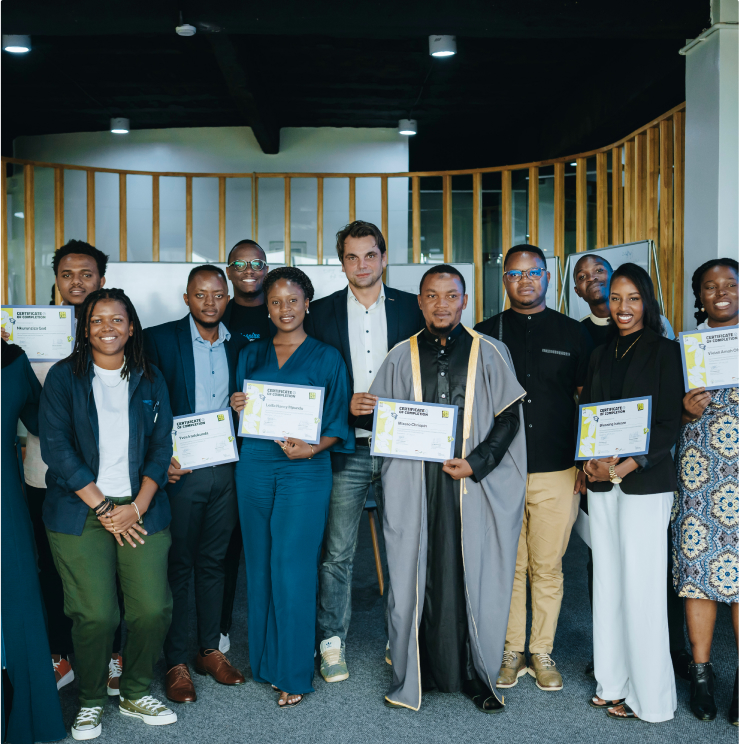
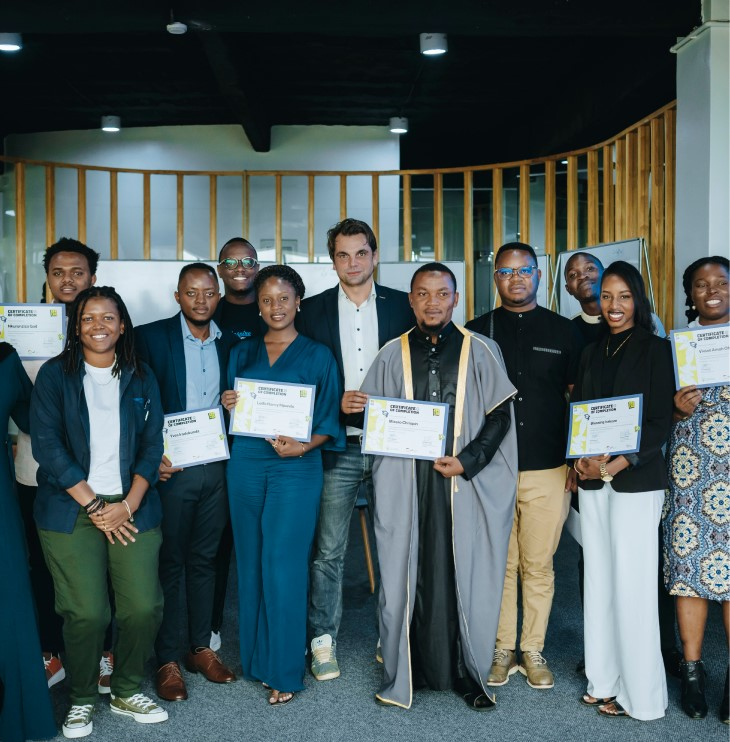
changes

diff --git a/src/projects.ts b/src/projects.ts
@@ -68,8 +68,8 @@ export interface GroupedProject {
 const projects: Project[] = [
   {
     id: "rwandafoam",
-    name: "RWANDA FOAM",
-    details: "Rwanda Foam is a prominent manufacturer of mattresses and sleep accessories established in 1983. They specialize in producing high-quality foam mattresses designed for comfort and airflow, with a focus on enhancing sleep quality and providing value to customers.",
+    name: "RWANDAFOAM",
+    details: "RwandaFoam is a prominent manufacturer of mattresses and sleep accessories established in 1983. They specialize in producing high-quality foam mattresses designed for comfort and airflow, with a focus on enhancing sleep quality and providing value to customers.",
     description: "Re-establishing a reputable brand name across all ",
     description2: "marketing platforms",
     image: "/assets/foam.png",
@@ -77,18 +77,18 @@ const projects: Project[] = [
     dupImage: "/assets/mattress.jpg",
     layoutType: "full",
     video: "/PxEvids/Videos/Rwandafoam.mp4",
-    survey1: "Rwandafoam needed to revive its public presence and re-establish itself as the leading manufacturer of pure foam mattresses in Rwanda. Our market survey highlighted the challenge of an undefined brand identity, as many people didn’t see mattresses as a product worth engaging with on social media. We developed a strategy to build a distinct brand presence, emphasizing luxury, quality, and customer connection, to change perceptions and drive engagement.",
-    solution1: "When Rwandafoam was ready to turn their mattresses into more than just a product, we stepped in with a bold idea. Instead of simply selling a product, we told a story—one where luxury meets comfort, and quality goes beyond the surface. We developed campaigns that brought the Rwandafoam brand to life across TV, social media, and through influencers, showing that mattresses could be a conversation worth having.",
+    survey1: "RwandaFoam needed to revive its public presence and re-establish itself as the leading manufacturer of pure foam mattresses in Rwanda. Our market survey highlighted the challenge of an undefined brand identity, as many people didn’t see mattresses as a product worth engaging with on social media. We developed a strategy to build a distinct brand presence, emphasizing luxury, quality, and customer connection, to change perceptions and drive engagement.",
+    solution1: "When RwandaFoam was ready to turn their mattresses into more than just a product, we stepped in with a bold idea. Instead of simply selling a product, we told a story—one where luxury meets comfort, and quality goes beyond the surface. We developed campaigns that brought the Rwandafoam brand to life across TV, social media, and through influencers, showing that mattresses could be a conversation worth having.",
     solution2: "Activating creative strategies for RwandaFoam has boosted the company's outreach on and offline. Together with RwandaFoam, we told stories that turned users into comfortable customers. One mattress at a time.",
     subImage1: "/assets/mom.png",
     subImage2: "/assets/rose.jpg",
     subImage3: "/assets/sirimuka.png",
     projSubtitle1: "RwandaFoam at Tour du",
     projSubtitle2: " Rwanda",
-    projDesc1: "As part of elevating the brand image, Pixel Eye launched Sirimuka na Rwandafoam [Upgrade with RwandaFoam], the campaign that positioned the mattress giant as an attractive choice for high-end clientele.  The aim was to change a mindset held by Made-in-Rwanda-equals-poor-quality believers; revealing the intricate process and premium materials it takes to make the award-winning mattresses.",
+    projDesc1: "As part of elevating the brand image, Pixel Eye launched Sirimuka na RwandaFoam [Upgrade with RwandaFoam], the campaign that positioned the mattress giant as an attractive choice for high-end clientele.  The aim was to change a mindset held by Made-in-Rwanda-equals-poor-quality believers; revealing the intricate process and premium materials it takes to make the award-winning mattresses.",
     proj2Subtitle1: "Re-establish the brand's",
     proj2Subtitle2: "digital presence",
-    proj2Desc1: "With the need to revive their public presence and re-establish themselves as the leading manufacturer of Pure foam mattresses in Rwanda, we developed a campaign-based communication plan, that focused on re-establishing a reputable brand name for Rwandafoam across all social media platforms, increase product knowledge by using TV commercials, and thus generate more sales by establishing Rwandafoam's online shopping platform.",
+    proj2Desc1: "With the need to revive their public presence and re-establish themselves as the leading manufacturer of Pure foam mattresses in Rwanda, we developed a campaign-based communication plan, that focused on re-establishing a reputable brand name for RwandaFoam across all social media platforms, increase product knowledge by using TV commercials, and thus generate more sales by establishing RwandaFoam's online shopping platform.",
     sub2Image1: "/assets/foam1.jpg",
     sub2Image2: "/assets/man.png",
     sub2Image3: "/assets/landscape.jpg",
@@ -117,7 +117,7 @@ const projects: Project[] = [
     subImage3: "/assets/covers.jpg",
     projSubtitle1: "The “Stories Of Peace” ",
     projSubtitle2: "Book.",
-    projDesc1: "Over the years, we have worked with AEGIS TRUST in a creative capacity over various projects that range mostly in creative graphic design. One particular project to highlight is the “Stories Of Peace” books. AEGIS TRUST wanted to design the book in a visually storytelling manner that would appeal to the readers. We designed a book that combined visual and written elements to tell stories of peace, which were a compilation of stories from survivors of 1994 genocide against the Tutsi. This enabled AEGIS TRUST to launch the book, thus contributing to their peacebuilding mission here in Rwanda, and all around the world.",
+    projDesc1: "Over the years, we have worked with AEGIS TRUST in a creative capacity over various projects that range mostly in creative graphic design. One particular project to highlight is the “Stories Of Peace” book. AEGIS TRUST wanted to design the book in a visually storytelling manner that would appeal to the readers. We designed a book that combined visual and written elements to tell stories of peace, which were a compilation of stories from survivors of 1994 genocide against the Tutsi. This enabled AEGIS TRUST to launch the book, thus contributing to their peacebuilding mission here in Rwanda, and all around the world.",
     proj2Subtitle1: "Healing Our Community ",
     proj2Subtitle2: "(HOC)",
     proj2Desc1: "Healing Our Community is a partnership that also includes Healing and Rebuilding Our Communities- Rwanda and IRDP - Institute of Research and Dialogue for Peace, and is supported by USAID. This joint project is a documentary that highlights the lives that have been positively impacted by the initiative. This inspiring  30 minute documentary reveals what we can all learn from Rwandan peace-builders, 25 years after the Genocide Against the Tutsi and includes stories from Karuna Center's Healing Our Communities program.",

diff --git a/src/app/page.tsx b/src/app/page.tsx
@@ -12,13 +12,13 @@ export default function Home() {
   const [isLoaded, setIsLoaded] = useState(false);
 
   const slides = [
-    { video: '/PxEvids/Videos/jibu.mp4', text: 'JIBU', desc: 'Driving change through communication', link: '/project/jibu' },
-    { video: '/PxEvids/Videos/aegis.mp4', text: 'AEGIS', desc: 'The stories of peace books', link: '/project/aegis' },
+    { video: '/PxEvids/Videos/jibu.mp4', text: 'JIBU', desc: 'Driving Change Through Communication', link: '/project/jibu' },
+    { video: '/PxEvids/Videos/aegis.mp4', text: 'AEGIS', desc: 'The "Stories Of Peace" book', link: '/project/aegis' },
     { video: '/PxEvids/Videos/HANGA PITCHFEST FINALE 2024.mp4', text: 'HANGA PITCHFEST', desc: 'Campaign Creative Direction', link: '/project/hanga-pitchfest' },
     { video: '/PxEvids/Videos/YCAS_24 Web reel.mp4', text: 'YOUTH CONNEKT AFRICA 2024', desc: 'Campaign Creative Direction', link: '/project/youth-connekt' },
     { video: '/PxEvids/Videos/250 PODCAST CEREMONY.mp4', text: '250 PODCAST', desc: 'Identity Development & Training Coordination', link: '/project/250-podcast' },
     { video: '/PxEvids/Videos/HANGA HUBS FINALE HIGHLIGHT.mp4', text: 'HANGA HUBS', desc: 'Campaign Creative Direction', link: '/project/hanga-pitchfest' },
-    { video: '/PxEvids/Videos/Rwandafoam.mp4', text: 'RWANDA FOAM', desc: 'Brand Revival implementation', link: '/project/rwandafoam' },
+    { video: '/PxEvids/Videos/Rwandafoam.mp4', text: 'RWANDAFOAM', desc: 'Brand Revival Implementation', link: '/project/rwandafoam' },
     { video: '/PxEvids/Videos/SRH web HIGHLIGHT.mp4', text: 'HANGA SRH', desc: 'Campaign Creative Direction', link: '/project/hanga-pitchfest' },
   ]
 
@@ -340,13 +340,13 @@ export default function Home() {
                   className="text-3xl lg:text-5xl font-Caslon"
                   variants={textReveal}
                 >
-                  Rwandafoam: Brand
+                  RwandaFoam: Brand
                 </motion.p>
                 <motion.p
                   className="text-3xl lg:text-5xl font-Caslon"
                   variants={textReveal}
                 >
-                  Revival implementation
+                  Revival Implementation
                 </motion.p>
               </div>
 
@@ -484,8 +484,8 @@ export default function Home() {
                     <HiArrowLongRight fill="gold" className="text-4xl" />
                   </div>
                   <div>
-                    <p className="text-white text-3xl md:text-4xl font-Caslon">Campaign creative </p>
-                    <p className="text-white text-3xl md:text-4xl font-Caslon"> direction</p>
+                    <p className="text-white text-3xl md:text-4xl font-Caslon">Campaign Creative </p>
+                    <p className="text-white text-3xl md:text-4xl font-Caslon"> Direction</p>
                   </div>
                 </motion.div>
               </Link>
@@ -557,8 +557,8 @@ export default function Home() {
                     <HiArrowLongRight fill="gold" className="text-4xl" />
                   </div>
                   <div>
-                    <p className="text-white text-3xl md:text-4xl font-Caslon">Audio-visual</p>
-                    <p className="text-white text-3xl md:text-4xl font-Caslon"> production</p>
+                    <p className="text-white text-3xl md:text-4xl font-Caslon">Audio-Visual</p>
+                    <p className="text-white text-3xl md:text-4xl font-Caslon">Production</p>
                   </div>
                 </motion.div>
               </Link>

diff --git a/src/app/services/page.tsx b/src/app/services/page.tsx
@@ -204,7 +204,7 @@ const ServicesPage = () => {
                 <p className="font-Gothic text-md">{services[activeIndex].desc}</p>
               </div>
               <div className="flex-1 mt-32">
-                <p className="font-Gothic text-md tracking-widest text-gold font-bold mb-4">
+                <p className="font-Gothic text-md tracking-widest text-gold font-bold mb-4 uppercase">
                   {services[activeIndex].subtitle}
                 </p>
                 <p className="font-Gothic text-md">{services[activeIndex].desc2}</p>

diff --git a/src/app/about/page.tsx b/src/app/about/page.tsx
@@ -117,7 +117,7 @@ const About = () => {
         viewport={{ once: true, amount: 0.3 }}
       >
         <Image
-          src="/assets/about.jpg"
+          src="/assets/team.JPG"
           alt="camera"
           width={1500}
           height={800}
